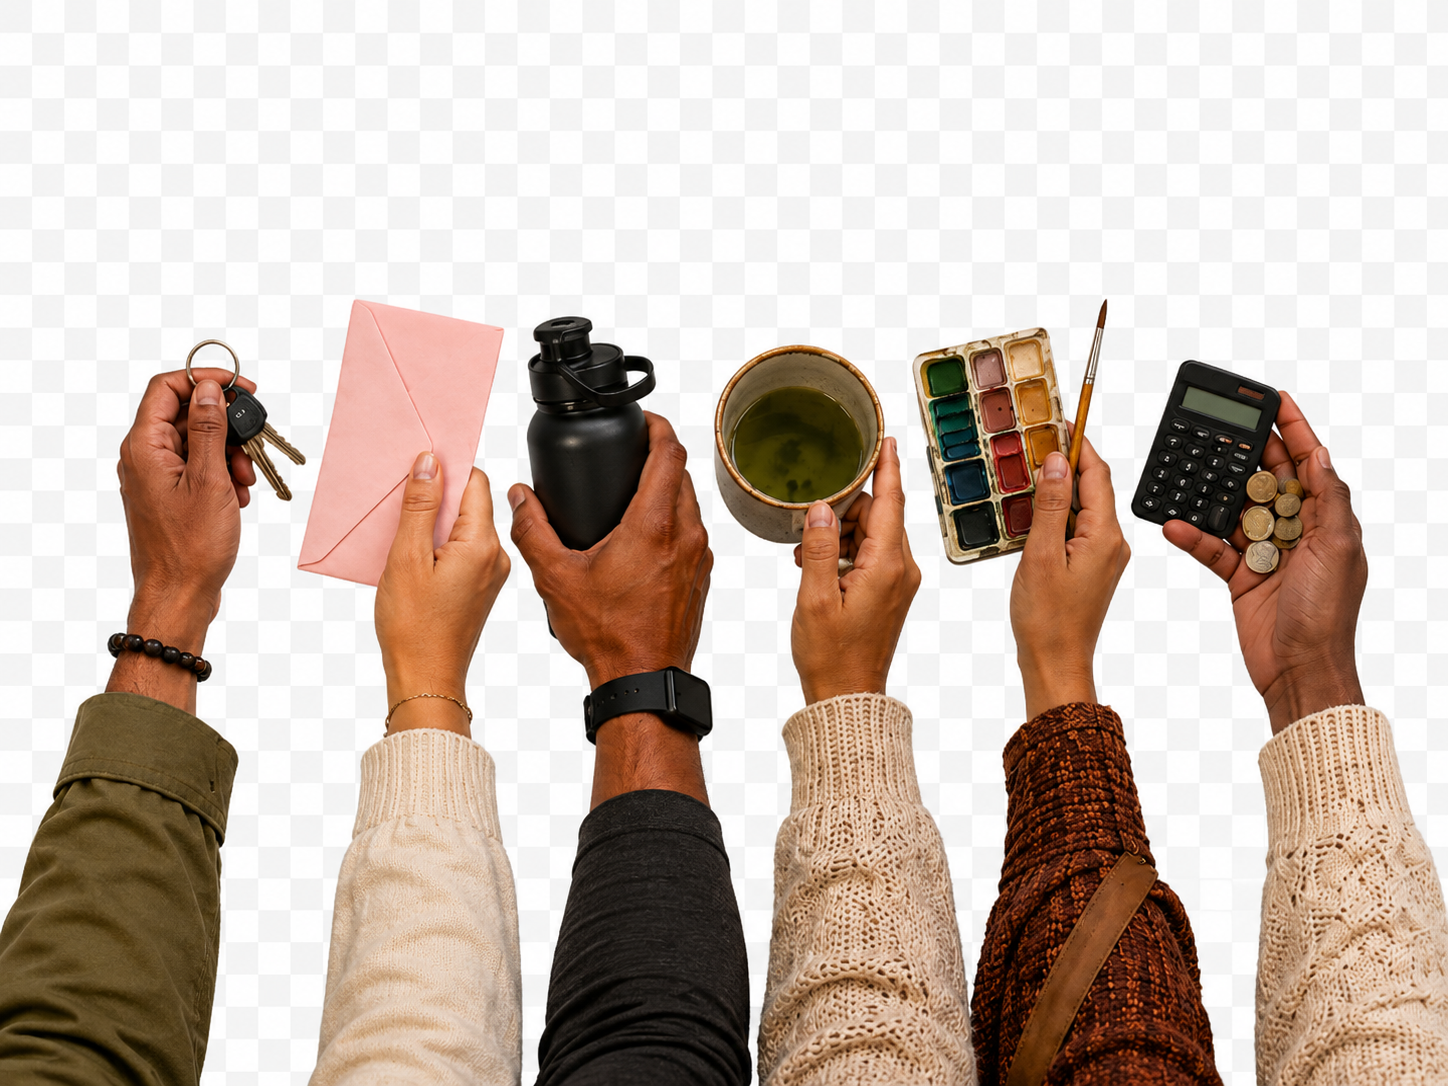
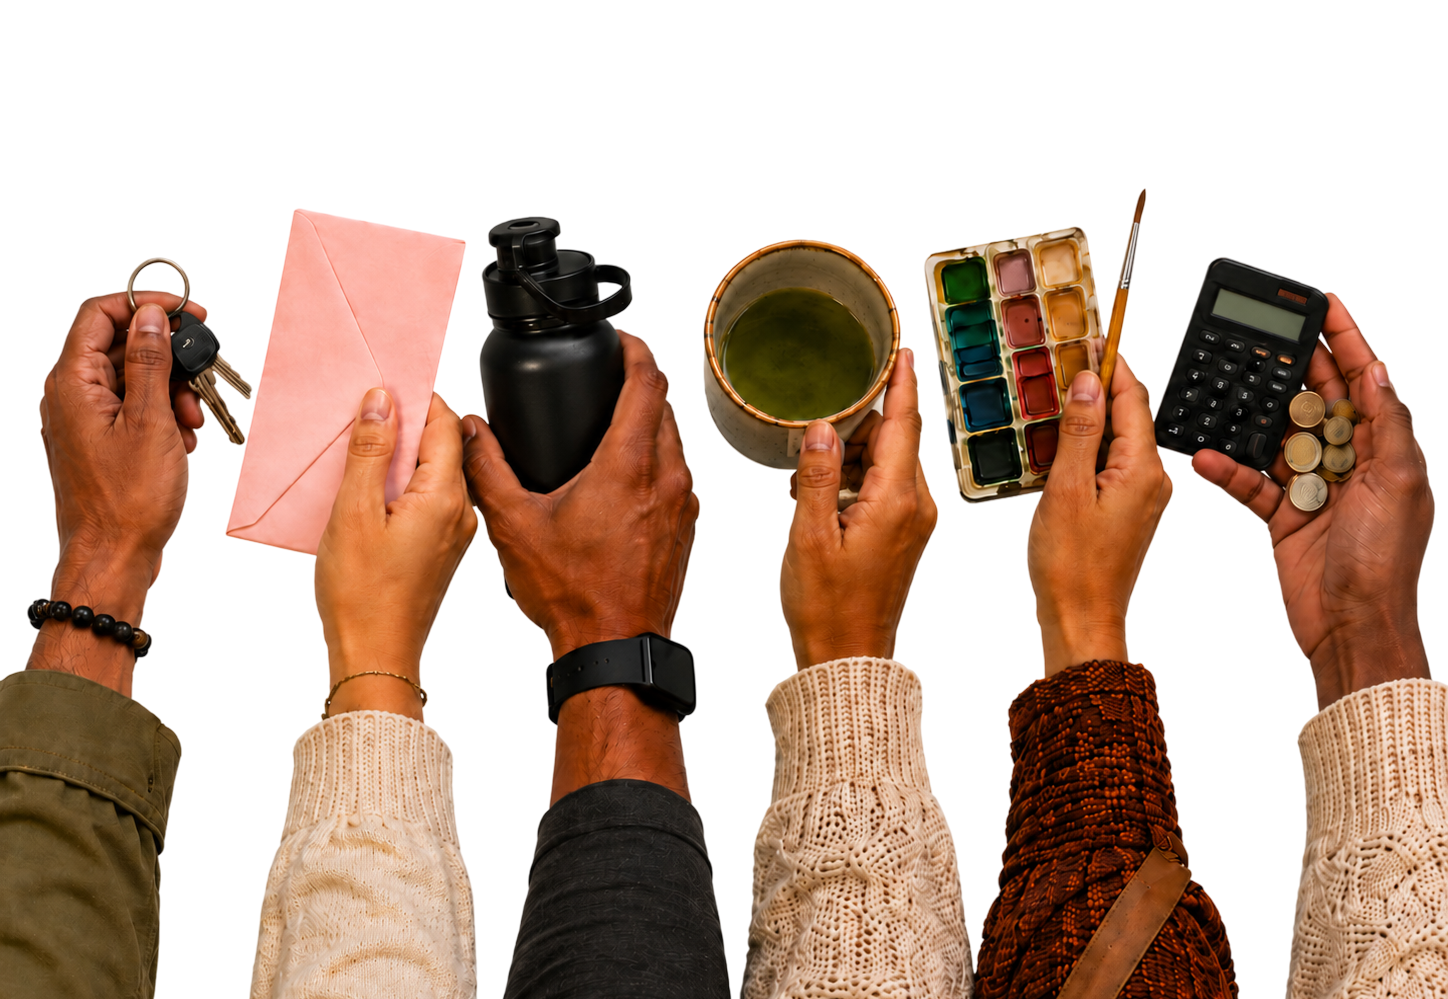
Image layout changes

diff --git a/styles.css b/styles.css
@@ -122,7 +122,7 @@ img {
   height: 600px;
   display: flex;
   flex-direction: column;
-  justify-content: space-between;
+  justify-content: flex-start;
   overflow: hidden;
   border: 1px solid #ccc;
   border-radius: 16px;
@@ -133,7 +133,7 @@ img {
 .project-card__text {
   width: 100%;
   padding: 24px 24px 0;
-  margin-bottom: -19px;
+  margin-bottom: -24px;
 }
 
 .project-card__text h2 {
@@ -159,14 +159,18 @@ img {
 .project-card__visual {
   position: relative;
   width: 100%;
-  height: 400px;
-  flex: 0 0 400px;
+  min-height: 0;
+  flex: 1 1 auto;
+  display: flex;
+  align-items: center;
+  justify-content: center;
+  overflow: hidden;
 }
 
 .project-card__visual img {
   width: 100%;
   height: 100%;
-  object-fit: cover;
+  object-fit: contain;
 }
 
 .project-card__visual--placeholder {
@@ -311,6 +315,10 @@ img {
 
 .project-media--shell {
   margin-bottom: 24px;
+}
+
+.bullet-block + .project-media--shell {
+  margin-top: 24px;
 }
 
 .project-media img {
@@ -466,8 +474,7 @@ img {
   }
 
   .project-card {
-    height: auto;
-    min-height: 560px;
+    height: 560px;
     border-radius: 16px;
   }
 
@@ -480,8 +487,7 @@ img {
   }
 
   .project-card__visual {
-    height: 340px;
-    flex-basis: 340px;
+    flex-basis: auto;
   }
 
   .intro__actions {

diff --git a/os-for-agents.html b/os-for-agents.html
@@ -132,7 +132,7 @@
         </div>
 
         <figure class="project-media project-media--text project-media--shell">
-          <img src="assets/OS for Agents/Agent Marketplace.png" width="1448" height="1086" alt="Agent Marketplace shell model illustration.">
+          <img src="assets/OS for Agents/Agent Marketplace.png?v=20260514233326" width="1448" height="1086" alt="Agent Marketplace shell model illustration.">
         </figure>
         <div class="bullet-block bullet-block--one">
           <div class="bullet-point">